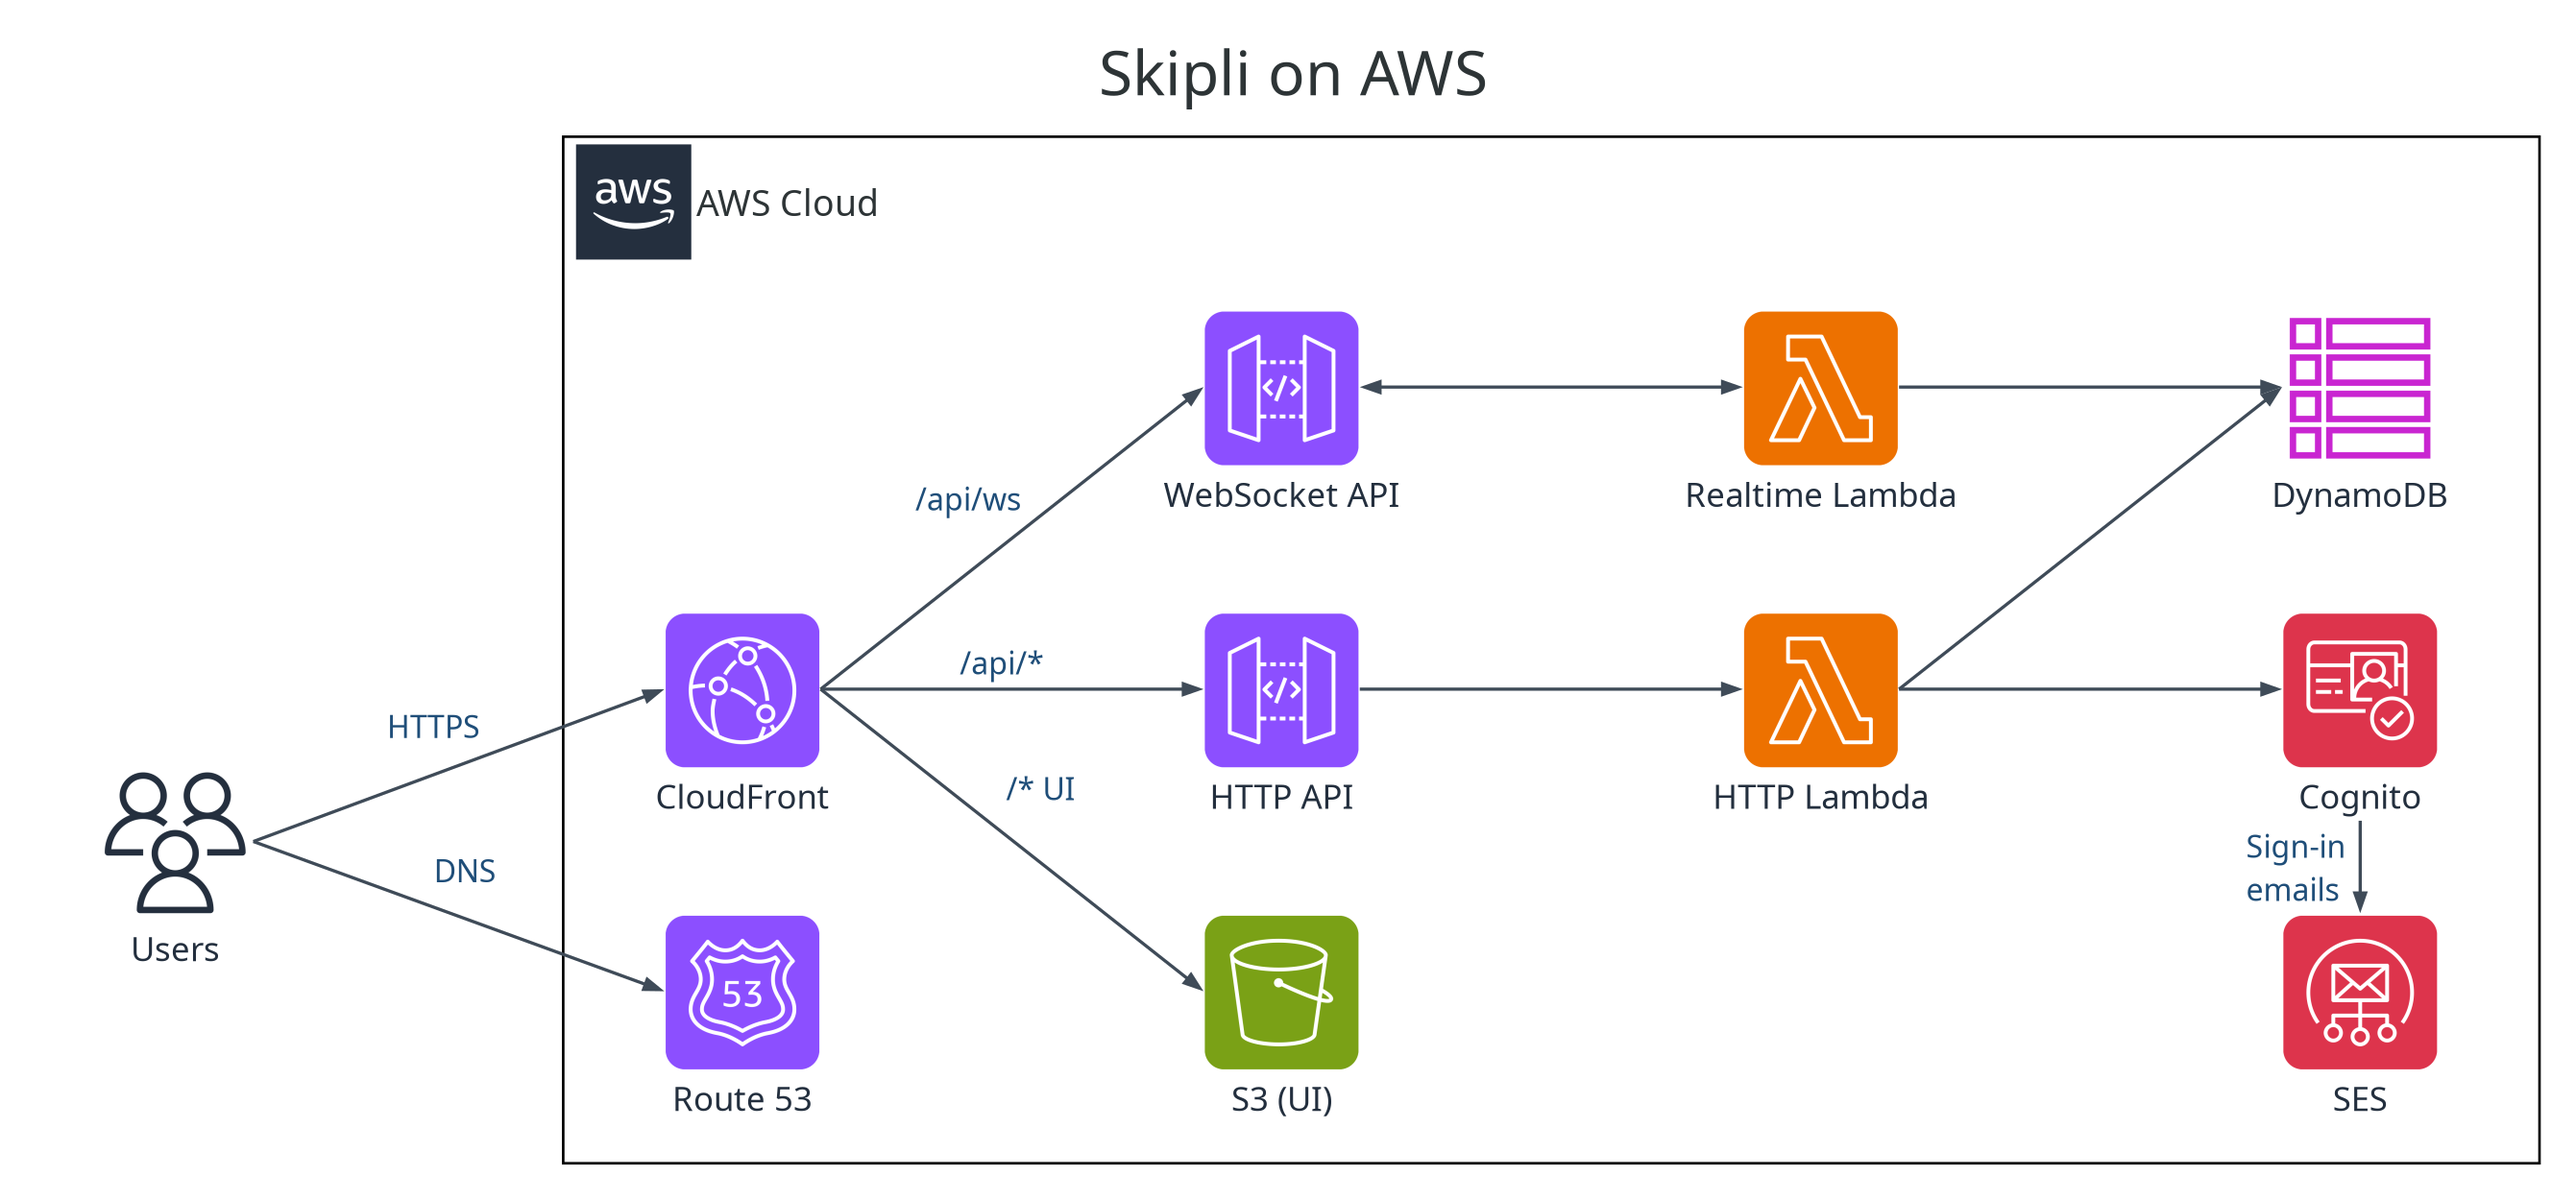
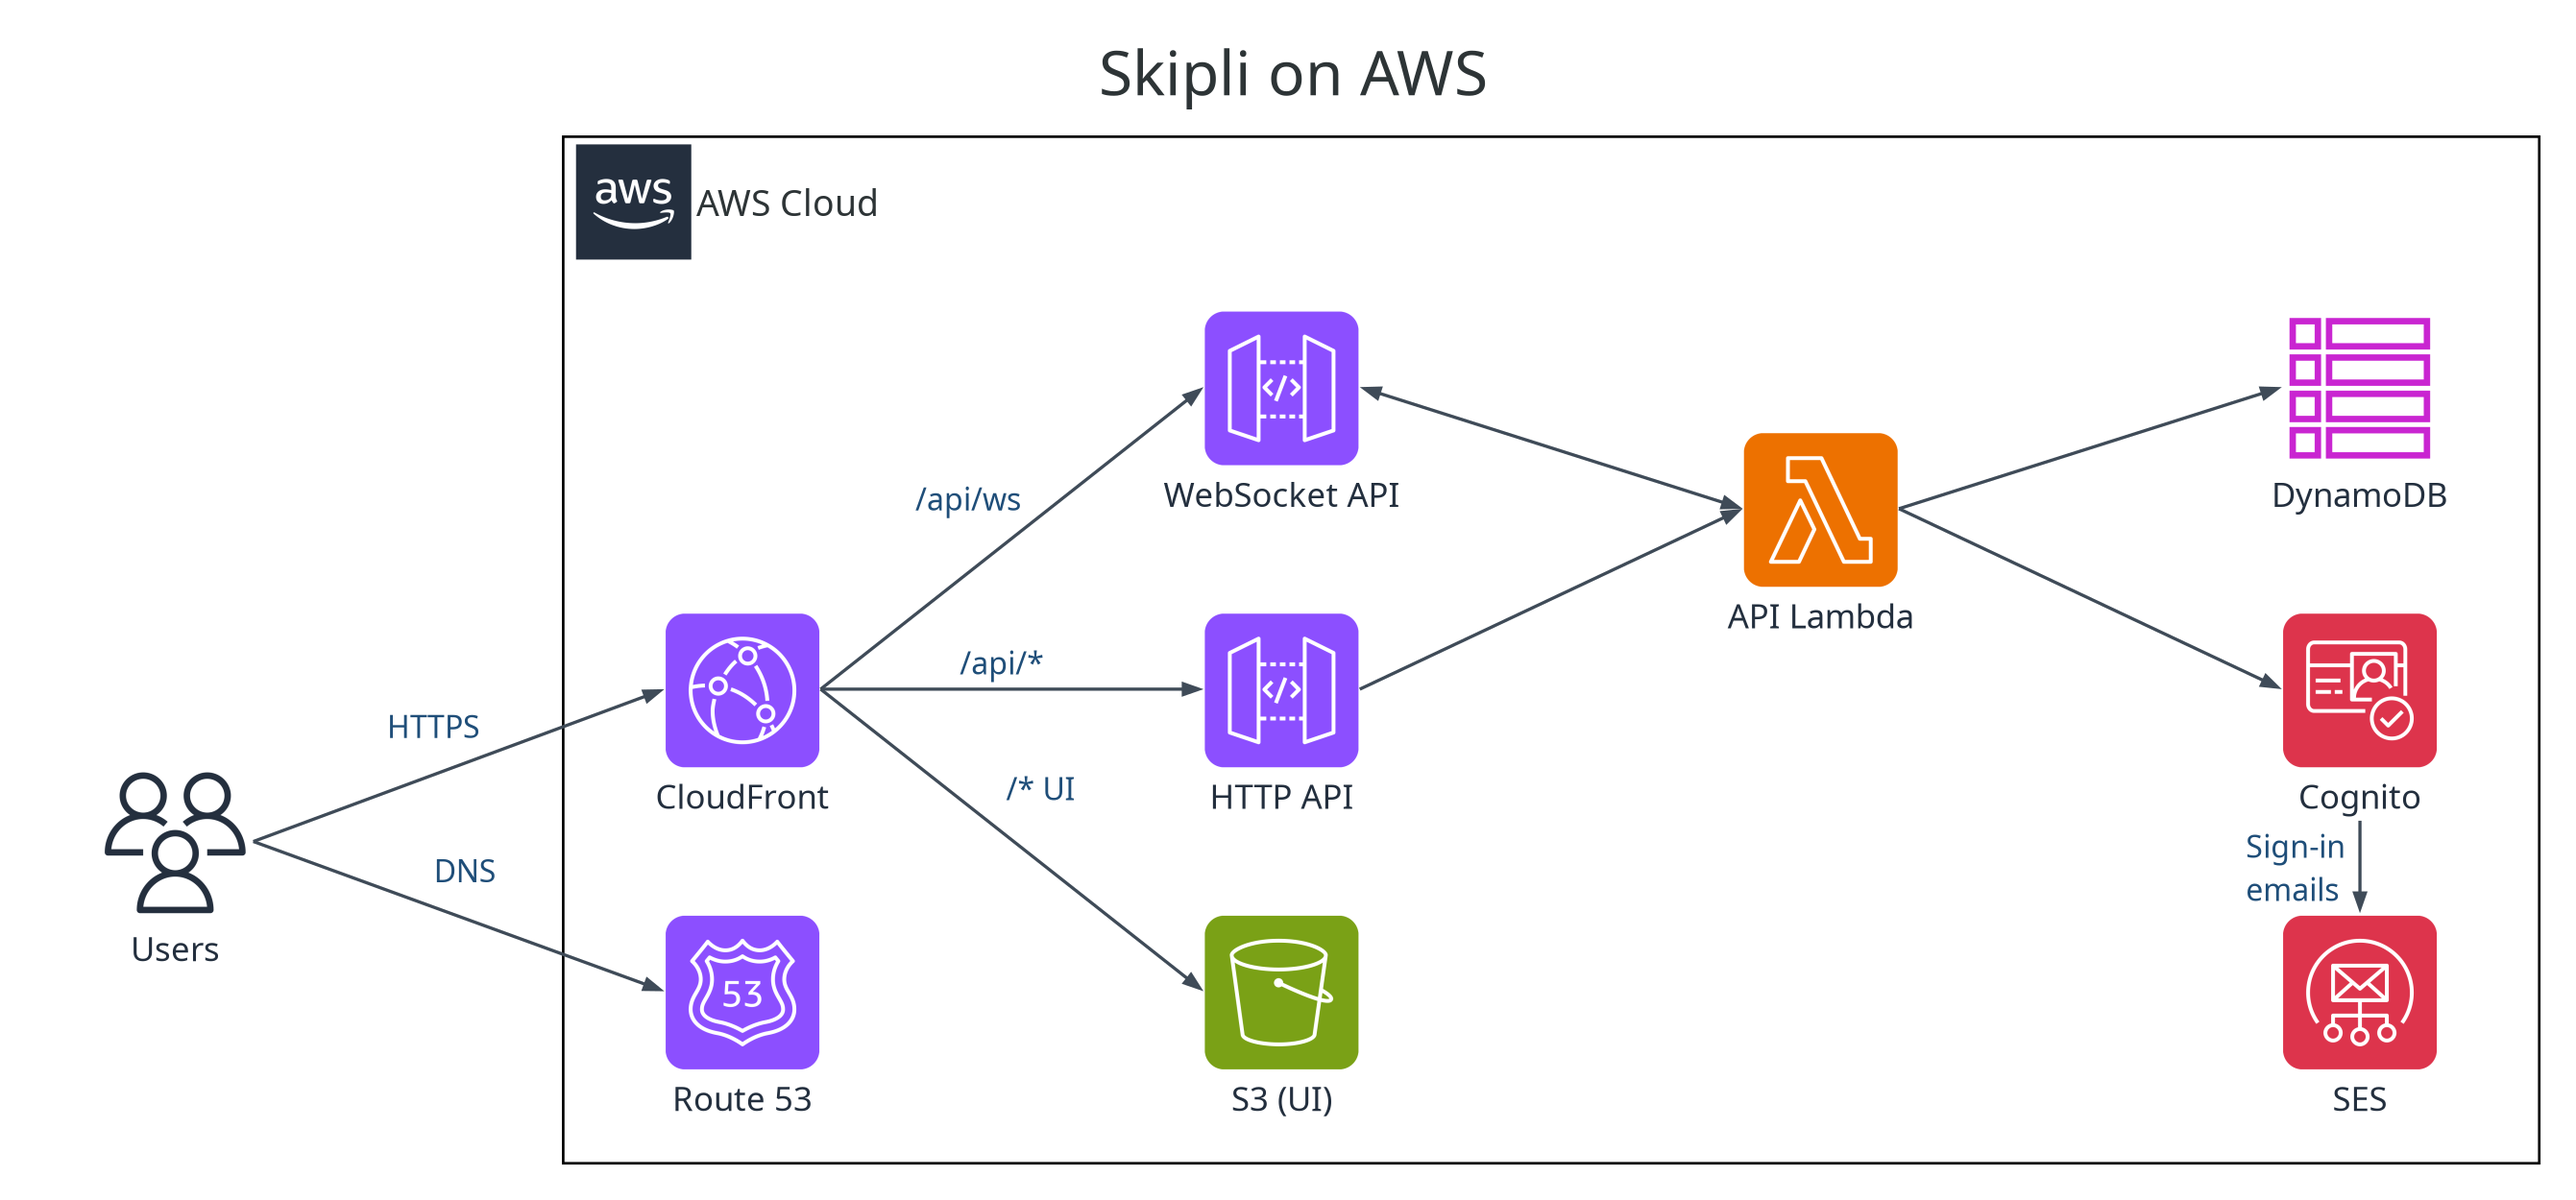
refactor: serve the HTTP and WebSocket APIs from one Lambda again

Changed region(s): [[0.5261, 0.2496, 0.8975, 0.6864], [0.7737, 0.468, 0.8046, 0.4992], [0.7737, 0.3744, 0.8046, 0.4056]]

diff --git a/api/cmd/skipli/dispatch_test.go b/api/cmd/skipli/dispatch_test.go
@@ -1,0 +1,54 @@
+package main
+
+import (
+	"context"
+	"encoding/json"
+	"net/http"
+	"testing"
+
+	"github.com/aws/aws-lambda-go/events"
+)
+
+func TestDispatchSendsEachEventToItsAPI(t *testing.T) {
+	router := http.HandlerFunc(func(w http.ResponseWriter, req *http.Request) {
+		w.WriteHeader(http.StatusTeapot)
+		w.Write([]byte(req.Method + " " + req.URL.Path))
+	})
+	var sockets []events.APIGatewayWebsocketProxyRequest
+	handle := dispatch(router, func(_ context.Context, req events.APIGatewayWebsocketProxyRequest) (events.APIGatewayProxyResponse, error) {
+		sockets = append(sockets, req)
+		return events.APIGatewayProxyResponse{StatusCode: 200, Body: "ack"}, nil
+	})
+
+	out, err := handle(context.Background(), json.RawMessage(`{
+		"version": "2.0", "rawPath": "/api/boards",
+		"requestContext": {"http": {"method": "GET", "path": "/api/boards"}}
+	}`))
+	if err != nil {
+		t.Fatal(err)
+	}
+	if res := out.(events.APIGatewayV2HTTPResponse); res.StatusCode != http.StatusTeapot || res.Body != "GET /api/boards" {
+		t.Errorf("HTTP event answered %d %q", res.StatusCode, res.Body)
+	}
+	if len(sockets) != 0 {
+		t.Errorf("HTTP event reached the socket handler")
+	}
+
+	out, err = handle(context.Background(), json.RawMessage(`{
+		"body": "{\"action\":\"ping\"}",
+		"requestContext": {"routeKey": "$default", "eventType": "MESSAGE", "connectionId": "c1", "stage": "ws"}
+	}`))
+	if err != nil {
+		t.Fatal(err)
+	}
+	if res := out.(events.APIGatewayProxyResponse); res.Body != "ack" {
+		t.Errorf("socket event answered %+v", res)
+	}
+	if len(sockets) != 1 || sockets[0].RequestContext.ConnectionID != "c1" || sockets[0].Body != `{"action":"ping"}` {
+		t.Errorf("socket handler got %+v", sockets)
+	}
+
+	if _, err := handle(context.Background(), json.RawMessage(`{"source":"aws.events"}`)); err == nil {
+		t.Error("unknown event accepted")
+	}
+}

diff --git a/api/cmd/skipli/main.go b/api/cmd/skipli/main.go
@@ -1,0 +1,56 @@
+// Command skipli is the whole API: one Lambda behind both the HTTP API and the
+// board WebSocket API, or, on a developer's machine, one server for both.
+package main
+
+import (
+	"fmt"
+	"log"
+	"net/http"
+	"os"
+	"time"
+
+	"github.com/aws/aws-lambda-go/lambda"
+
+	"github.com/Schiffer116/skipli/api/internal/config"
+	"github.com/Schiffer116/skipli/api/internal/realtime"
+	"github.com/Schiffer116/skipli/api/internal/server"
+)
+
+func main() {
+	c := config.Load()
+	router := server.NewRouter(c)
+	rt := realtime.NewHandler(c.AWS, c.DB, c.Table, c.Tokens)
+
+	if os.Getenv("AWS_LAMBDA_RUNTIME_API") != "" {
+		lambda.Start(dispatch(router, rt.Handle))
+		return
+	}
+
+	mux := http.NewServeMux()
+	mux.HandleFunc("GET /api/ws", rt.ServeLocal(socketLimits()))
+	mux.Handle("/", router)
+
+	port := os.Getenv("PORT")
+	if port == "" {
+		port = "3000"
+	}
+
+	fmt.Println("Server is running on port", port)
+	log.Fatal(http.ListenAndServe(":"+port, mux))
+}
+
+// socketLimits are API Gateway's, unless WS_IDLE or WS_LIFETIME (such as
+// "30s") shorten them to try reconnecting without waiting.
+func socketLimits() realtime.Limits {
+	limits := realtime.GatewayLimits
+	for name, limit := range map[string]*time.Duration{"WS_IDLE": &limits.Idle, "WS_LIFETIME": &limits.Lifetime} {
+		if value := os.Getenv(name); value != "" {
+			d, err := time.ParseDuration(value)
+			if err != nil {
+				log.Fatalf("%s: %v", name, err)
+			}
+			*limit = d
+		}
+	}
+	return limits
+}

diff --git a/api/cmd/skipli/dispatch.go b/api/cmd/skipli/dispatch.go
@@ -1,0 +1,47 @@
+package main
+
+import (
+	"context"
+	"encoding/json"
+	"fmt"
+	"net/http"
+
+	"github.com/aws/aws-lambda-go/events"
+	"github.com/awslabs/aws-lambda-go-api-proxy/httpadapter"
+)
+
+// dispatch sends each Lambda event to the API it came from, told apart by its
+// shape: the WebSocket API's events name a connection, the HTTP API's (v2
+// payloads) an HTTP method.
+func dispatch(router http.Handler, socket func(context.Context, events.APIGatewayWebsocketProxyRequest) (events.APIGatewayProxyResponse, error)) func(context.Context, json.RawMessage) (any, error) {
+	httpAPI := httpadapter.NewV2(router)
+	return func(ctx context.Context, raw json.RawMessage) (any, error) {
+		var shape struct {
+			RequestContext struct {
+				ConnectionID string `json:"connectionId"`
+				HTTP         *struct {
+					Method string `json:"method"`
+				} `json:"http"`
+			} `json:"requestContext"`
+		}
+		if err := json.Unmarshal(raw, &shape); err != nil {
+			return nil, err
+		}
+
+		switch {
+		case shape.RequestContext.ConnectionID != "":
+			var req events.APIGatewayWebsocketProxyRequest
+			if err := json.Unmarshal(raw, &req); err != nil {
+				return nil, err
+			}
+			return socket(ctx, req)
+		case shape.RequestContext.HTTP != nil:
+			var req events.APIGatewayV2HTTPRequest
+			if err := json.Unmarshal(raw, &req); err != nil {
+				return nil, err
+			}
+			return httpAPI.ProxyWithContext(ctx, req)
+		}
+		return nil, fmt.Errorf("unrecognised event")
+	}
+}
